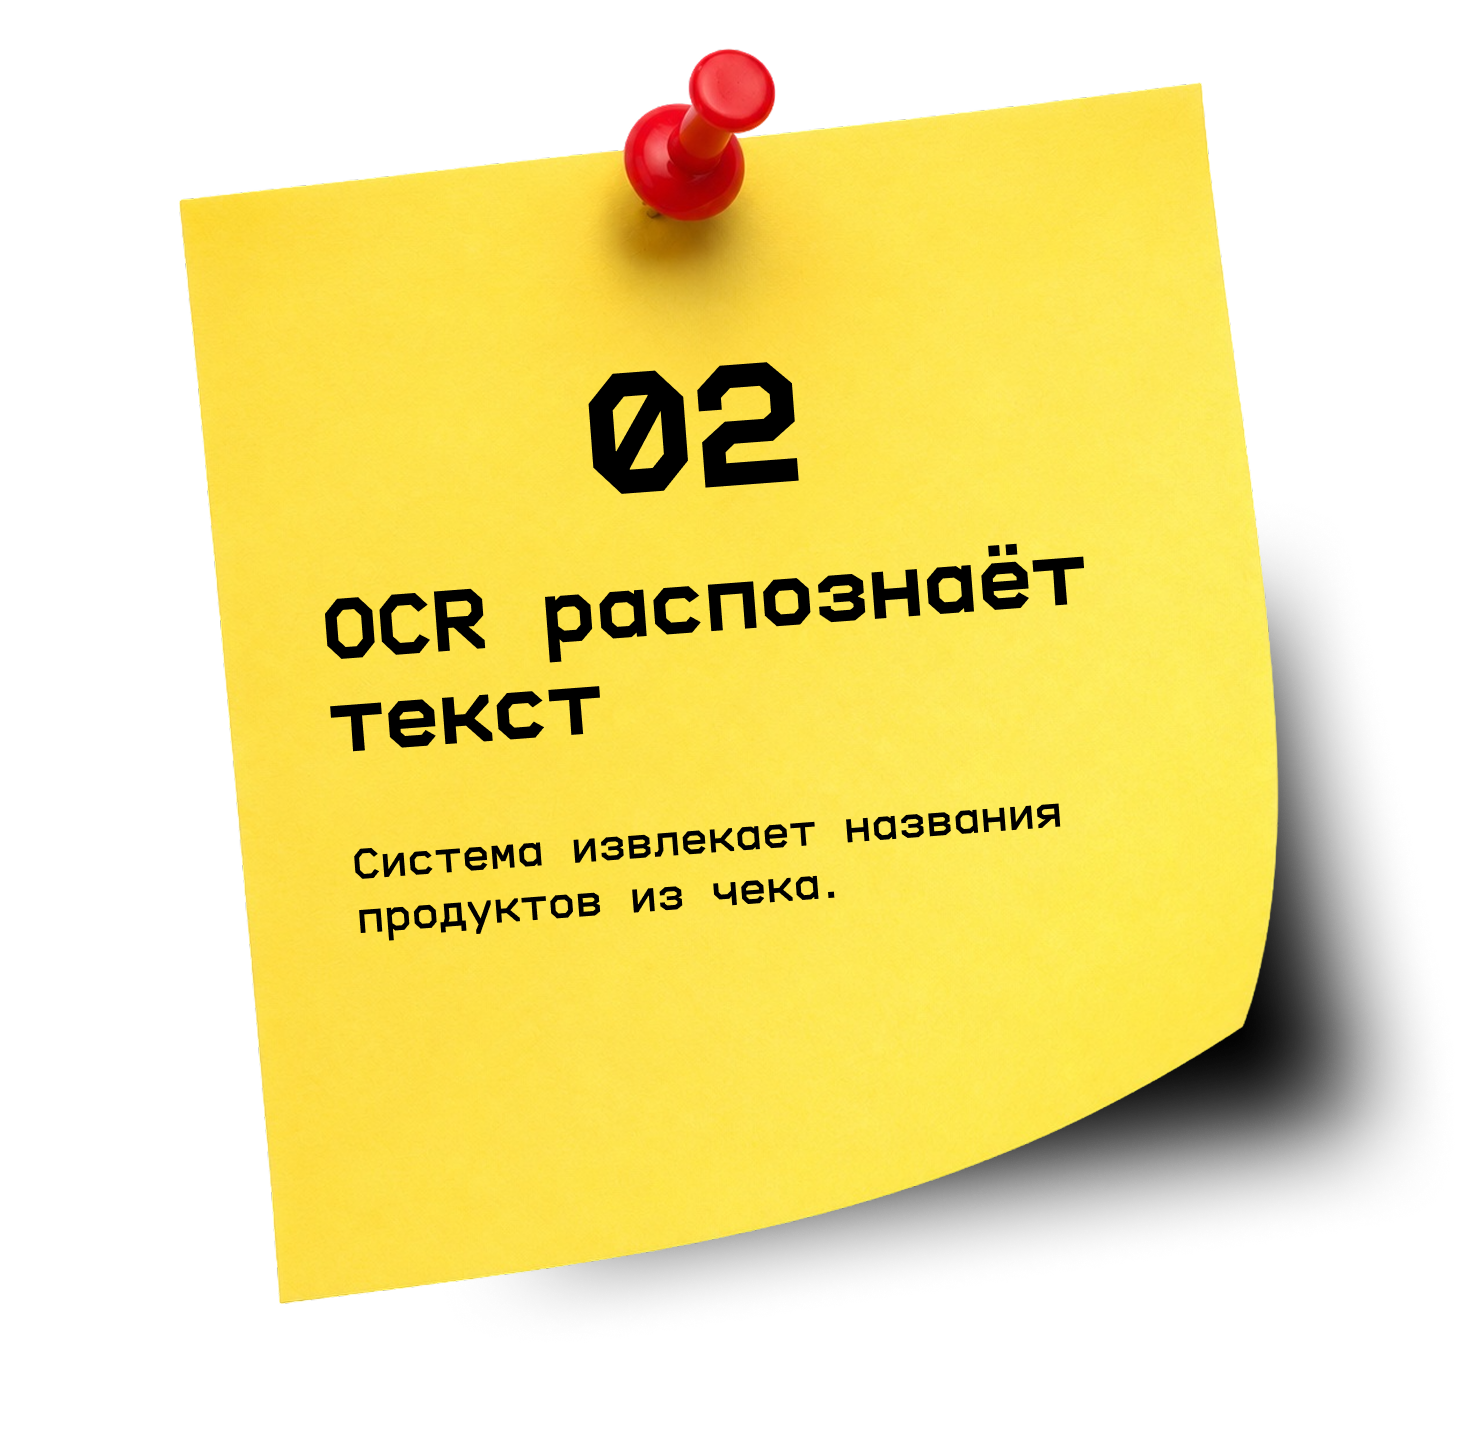
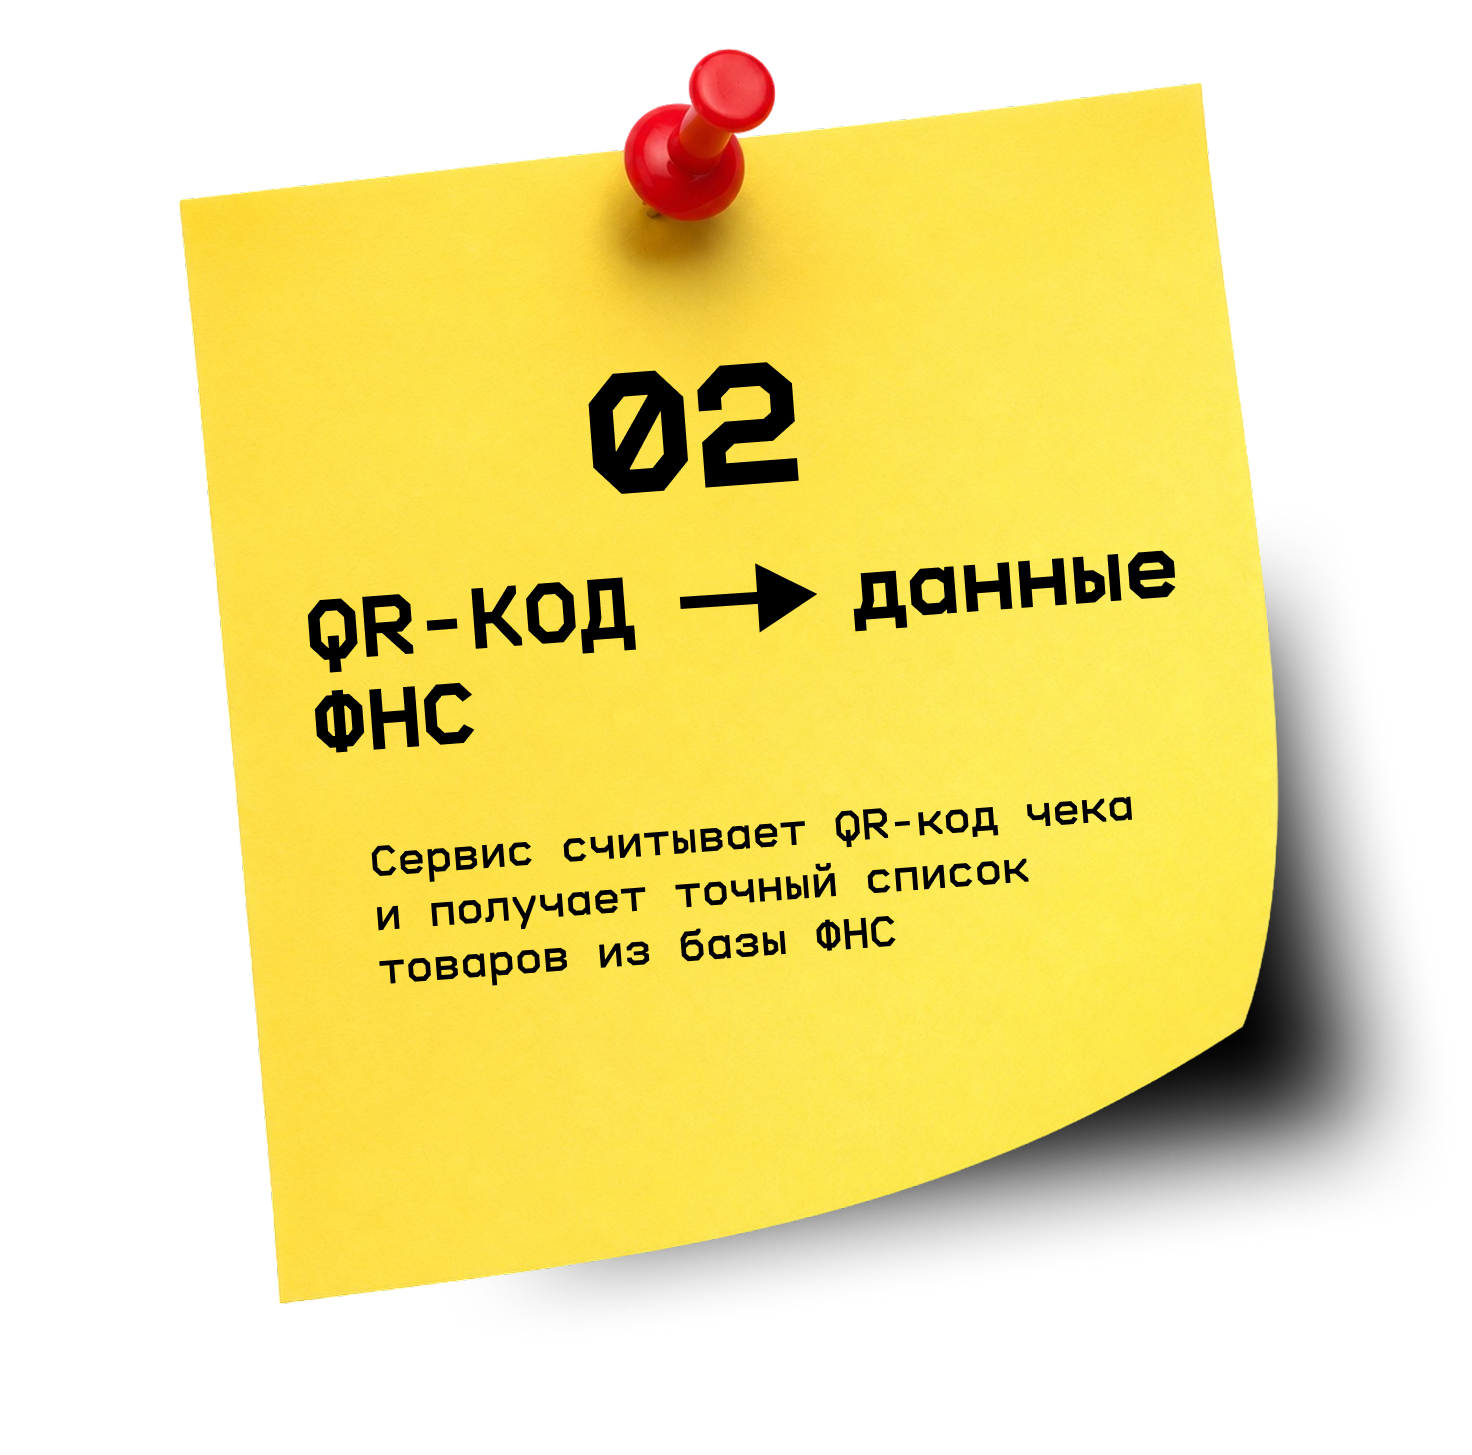
style: update note_2 image to reflect QR code scanning

Changed region(s): [[0.25, 0.5258, 0.75, 0.6804], [0.1875, 0.3711, 0.8125, 0.5258]]

diff --git a/frontendV2/src/app/components/HowItWorks.tsx b/frontendV2/src/app/components/HowItWorks.tsx
@@ -56,7 +56,7 @@ export function HowItWorks() {
           >
             <ImageWithFallback 
               src="/scrapbook/note_2.png"
-              alt="02 OCR распознаёт текст"
+              alt="02 Считывание QR-кода"
               className="w-full h-auto drop-shadow-[8px_8px_16px_rgba(0,0,0,0.3)] hover:drop-shadow-[12px_12px_24px_rgba(0,0,0,0.4)] transition-all"
             />
           </motion.div>